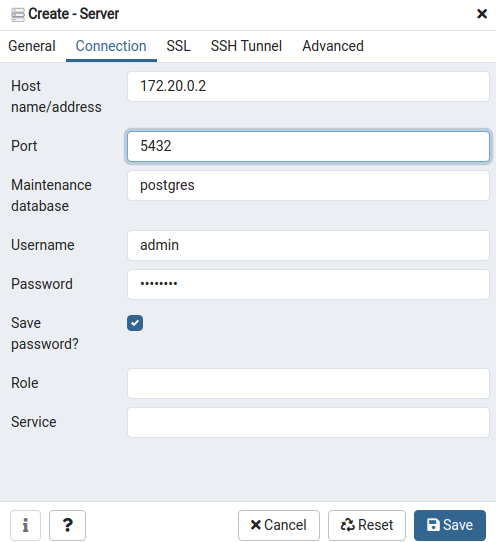
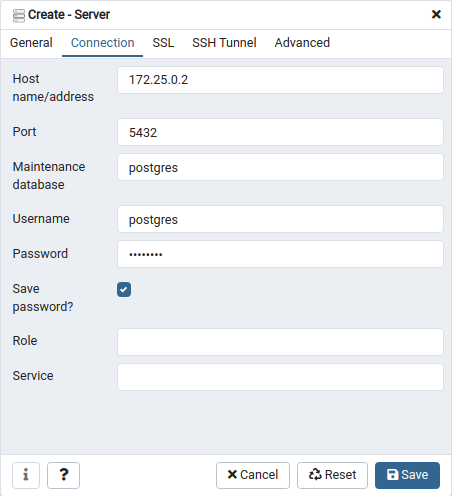
documentation

diff --git a/README.md b/README.md
@@ -1,37 +1,49 @@
 
-TRAILER PLAN DATABASE WITH POSTGRESQL
-=====================================
+TRAILER PLAN DATABASE WITH POSTGRESQL AND DJANGO
+================================================
 
 This is the database in postgresql for the project TRAILERPLAN in https://github.com/boonsuli/trailerpplan-user.
-It use docker compose to launch an container docker with postgresql 12.5 and the client pgadmin 4.30.
+It use docker compose to launch some container docker with postgresql 12.5, the database client pgadmin 4.30 and an application python.
+In this application python there is django, django rest, bootstrap and jquery. The features of this application are :
+
+- list the users in the browser from database
+- load an user in an popup modal from the database postgres with ajax
+- edit an user in the popup
+- save the user to database with ajax
+- modify the editing user in the list without refresh the page
+- api rest for : 
+    - GET, list the users
+    - GET, get an user
+    - PUT, modify an user
+ 
+
+the list of the users in pgadmin:
+![alt_text](docs/images/pgadmin-list-users.png)
+
+the list of the users in the application:
+![alt_text](docs/images/app-list-users.png)
+
 
 First :
 ```shell script
 $ docker pull postgres:12.5-alpine
-
 $ docker pull dpage/pgadmin4:4.30
+$ docker pull python:3.8.6-slim-buster
 ```
 
 Check the images :
 ```shell script
 $ docker images
-REPOSITORY      TAG          IMAGE ID      CREATED  SIZE
-postgres        12.5-alpine  e07060185412  ... ago  158MB
-dpage/pgadmin4  4.30         7db8147d0c7b  ... ago  278MB
+REPOSITORY      TAG                IMAGE ID      CREATED  SIZE
+postgres        12.5-alpine        e07060185412  ... ago  158MB
+dpage/pgadmin4  4.30               7db8147d0c7b  ... ago  278MB
+python          3.8.6-slim-buster  0f59d947500d  ... ago  113MB
 ```
 
-To run an container from the images. Put -d if you want to run in background:
-```shell script
-$ docker network create --driver bridge postgres-network
-
-$ docker run --name postgres-container -e 'POSTGRES_PASSWORD=P@55w*rD' -v /var/lib/postgres/data --hostname='postgres-server' --network='postgres-network' -p 5432:5432 postgres:12.5-alpine
-
-$ docker run --name pgadmin-container  -e 'PGADMIN_DEFAULT_EMAIL=postgres@trailerplan.com' -e 'PGADMIN_DEFAULT_PASSWORD=P@55w*rD' --hostname='pgadmin-server' --network='postgres-network' -p 5050:80 dpage/pgadmin4:4.30
-```
 
 To run the container from the root dir of the project with the docker-compose yml file. The value of the log level is {critical, debug, error, info, warning} :
 ```shell script
-$ docker-compose --env-file ./config/env.file --log-level debug up
+$ docker-compose --env-file ./docker/config/env.file --log-level debug up
 ```
 
 
@@ -39,7 +51,7 @@ Access to http://localhost:5050 and use the credential : postgres@trailerplan.co
 
 
 ```shell script
-$ docker-compose --env-file ./config/env.dev ps
+$ docker-compose --env-file ./docker/config/env.dev ps
        Name                     Command              State               Ports            
 ------------------------------------------------------------------------------------------
 pgadmin-container    /entrypoint.sh                  Up      443/tcp, 0.0.0.0:5050->80/tcp
@@ -52,7 +64,7 @@ NETWORK ID     NAME                                       DRIVER    SCOPE
 7081b67cc9e6   bridge                                     bridge    local
 38d3331fa154   host                                       host      local
 d6b6eb4d5cef   none                                       null      local
-3f49d69013e8   trailerplan-db-postgres_postgres-network   bridge    local
+3f49d69013e8   trailerplan-db-django_postgres-network     bridge    local
 ```
 
 ```shell script
@@ -83,8 +95,8 @@ $ docker inspect postgres-container
                     ],
[2 lines of base64/hex data omitted]
-                    "Gateway": "172.20.0.1",
-                    "IPAddress": "172.20.0.2",
+                    "Gateway": "172.25.0.1",
+                    "IPAddress": "172.25.0.2",
                     "IPPrefixLen": 16,
                     "IPv6Gateway": "",
                     "GlobalIPv6Address": "",
@@ -93,22 +105,22 @@ $ docker inspect postgres-container
                     "DriverOpts": null
 ...
 ```
- The ip address of the container postgres-container is __172.20.0.2__.  
+ The ip address of the container postgres-container is __172.25.0.2__.  
 
 To create a database server in pgadmin. Use right click on Servers and create the server.
 ![alt_text](docs/images/pgadmin-menu-create-server.png)
 
 
-Then fill the server name to : **trailerplan-server**
+Then fill the server name to : **postgres-server**
 
 ![alt_text](docs/images/pgadmin-create-server-general.png)
 
 In the connection tab, fill the IP address you are get before from 'docker inspect postgres-container'
 ![alt_text](docs/images/pgadmin-create-server-connection.png)
 
-We need also the password to access to the database from the environment file.
+We need also the password to access to the database from the environment file. In the config file ```docker/config/env.dev``` 
+use the password in the property : **POSTGRES_PASSWORD**
 
 Finally the table of P_USER is created, the schema is applied and the data is populated according to the sql script.
 
 ![alt_text](docs/images/pgadmin-p_user-schema.png)
-![alt_text](docs/images/p_user_contents.png)
